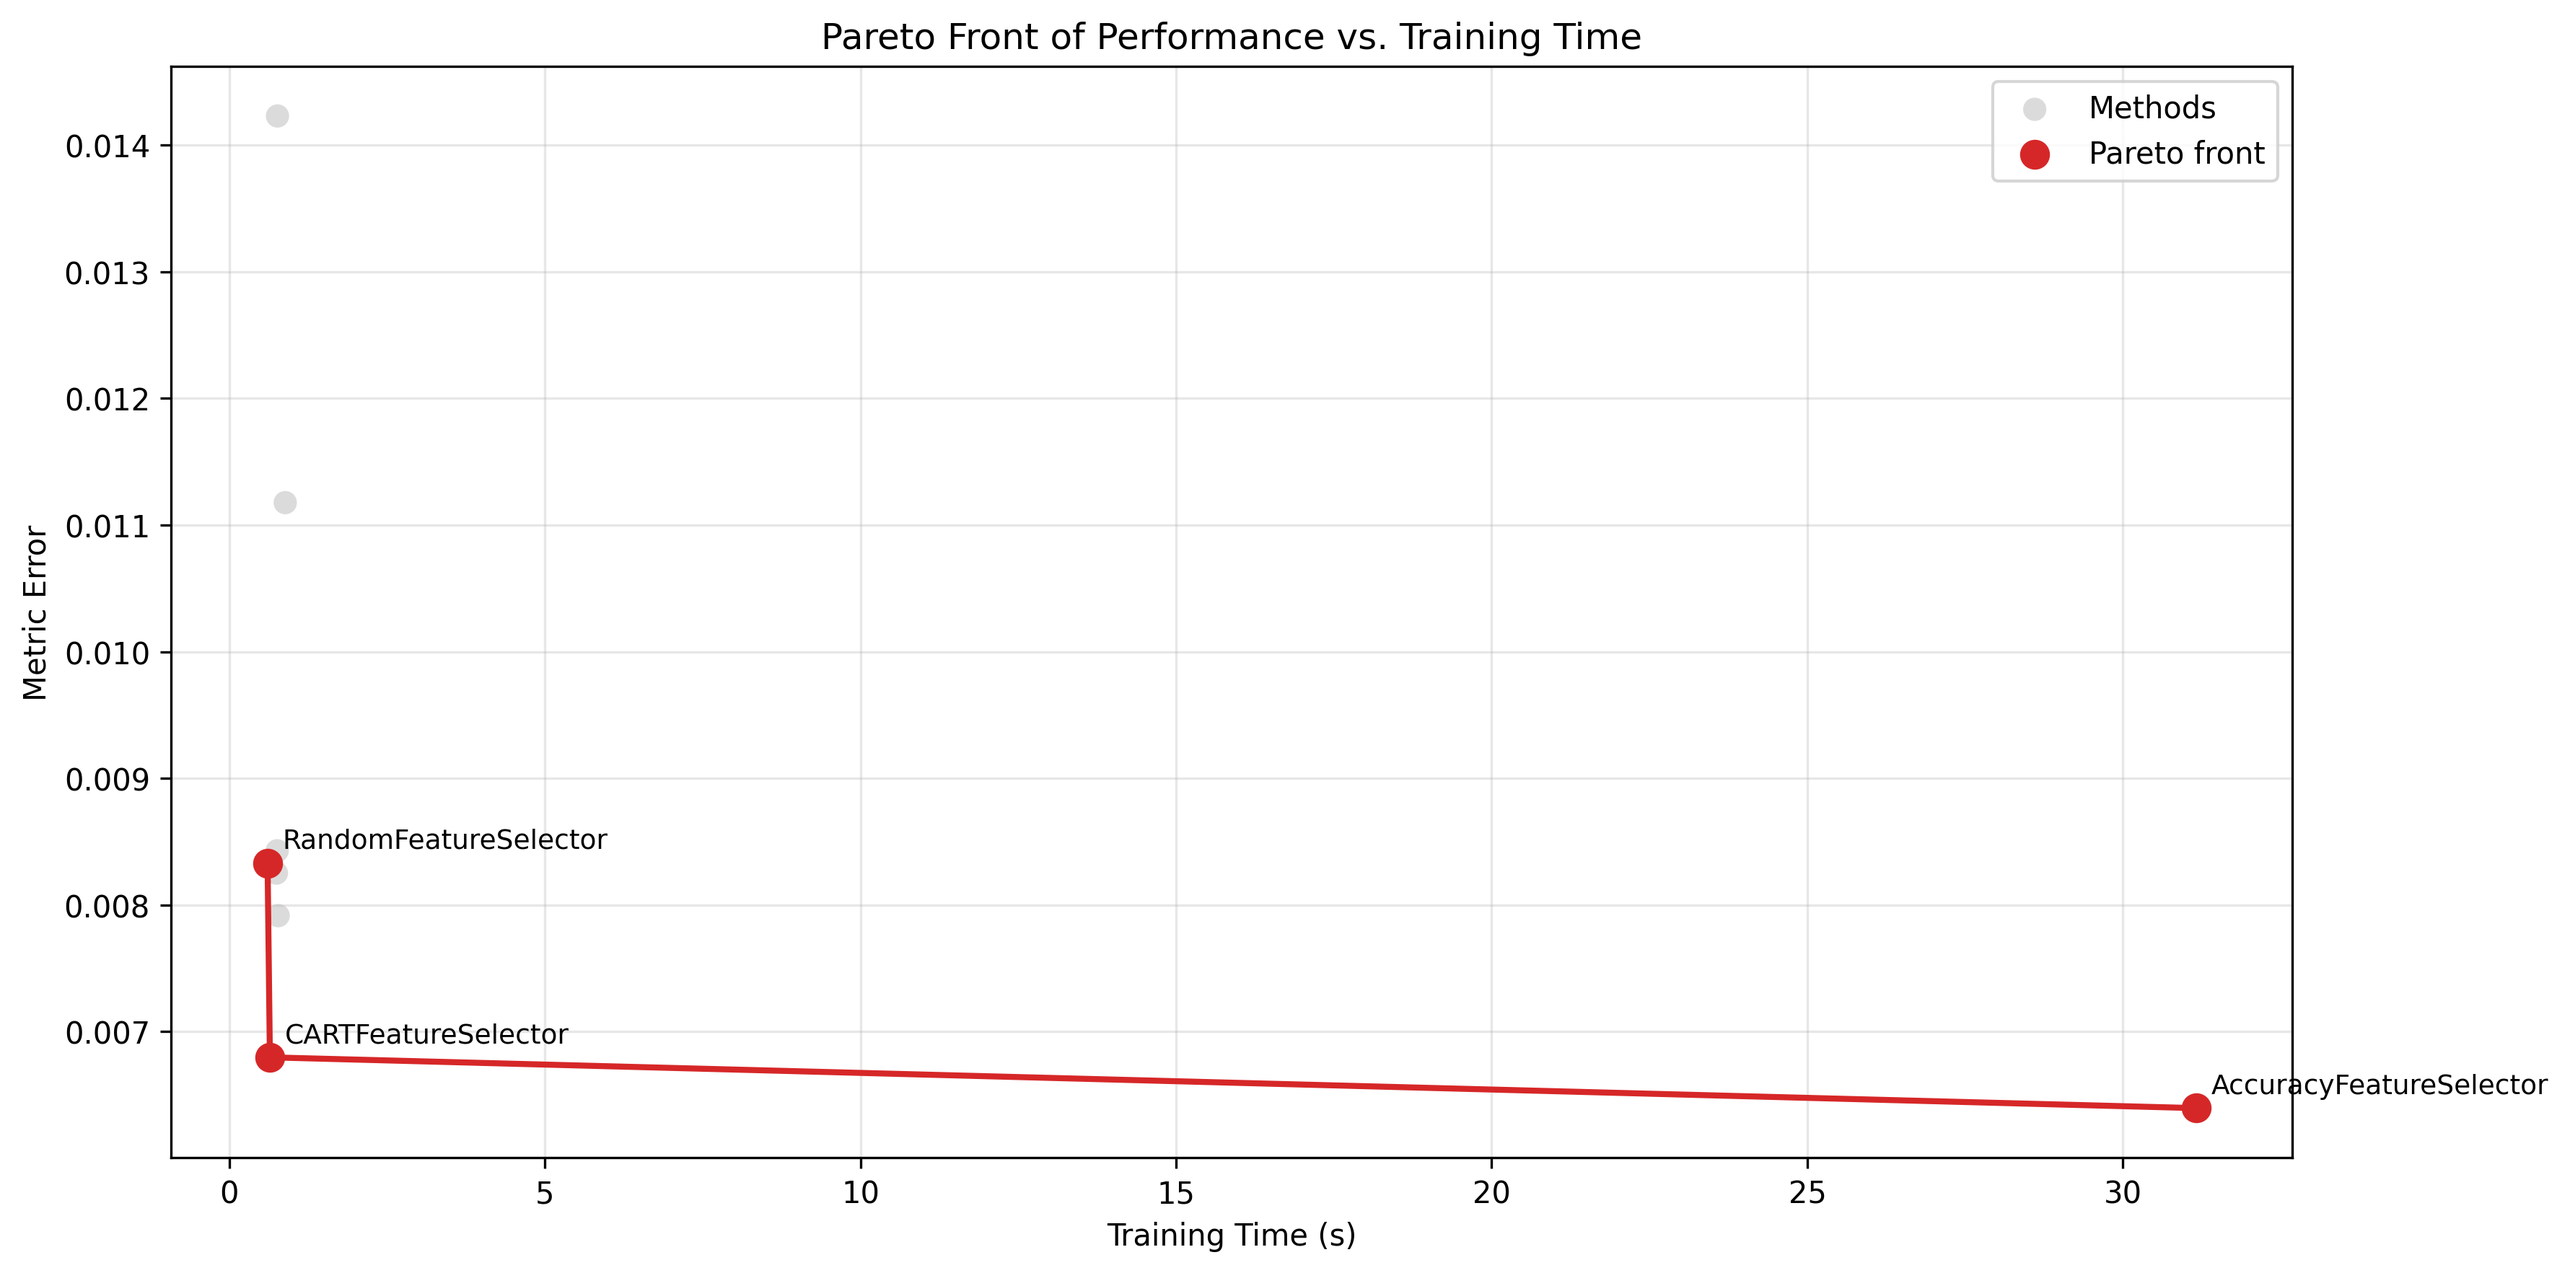
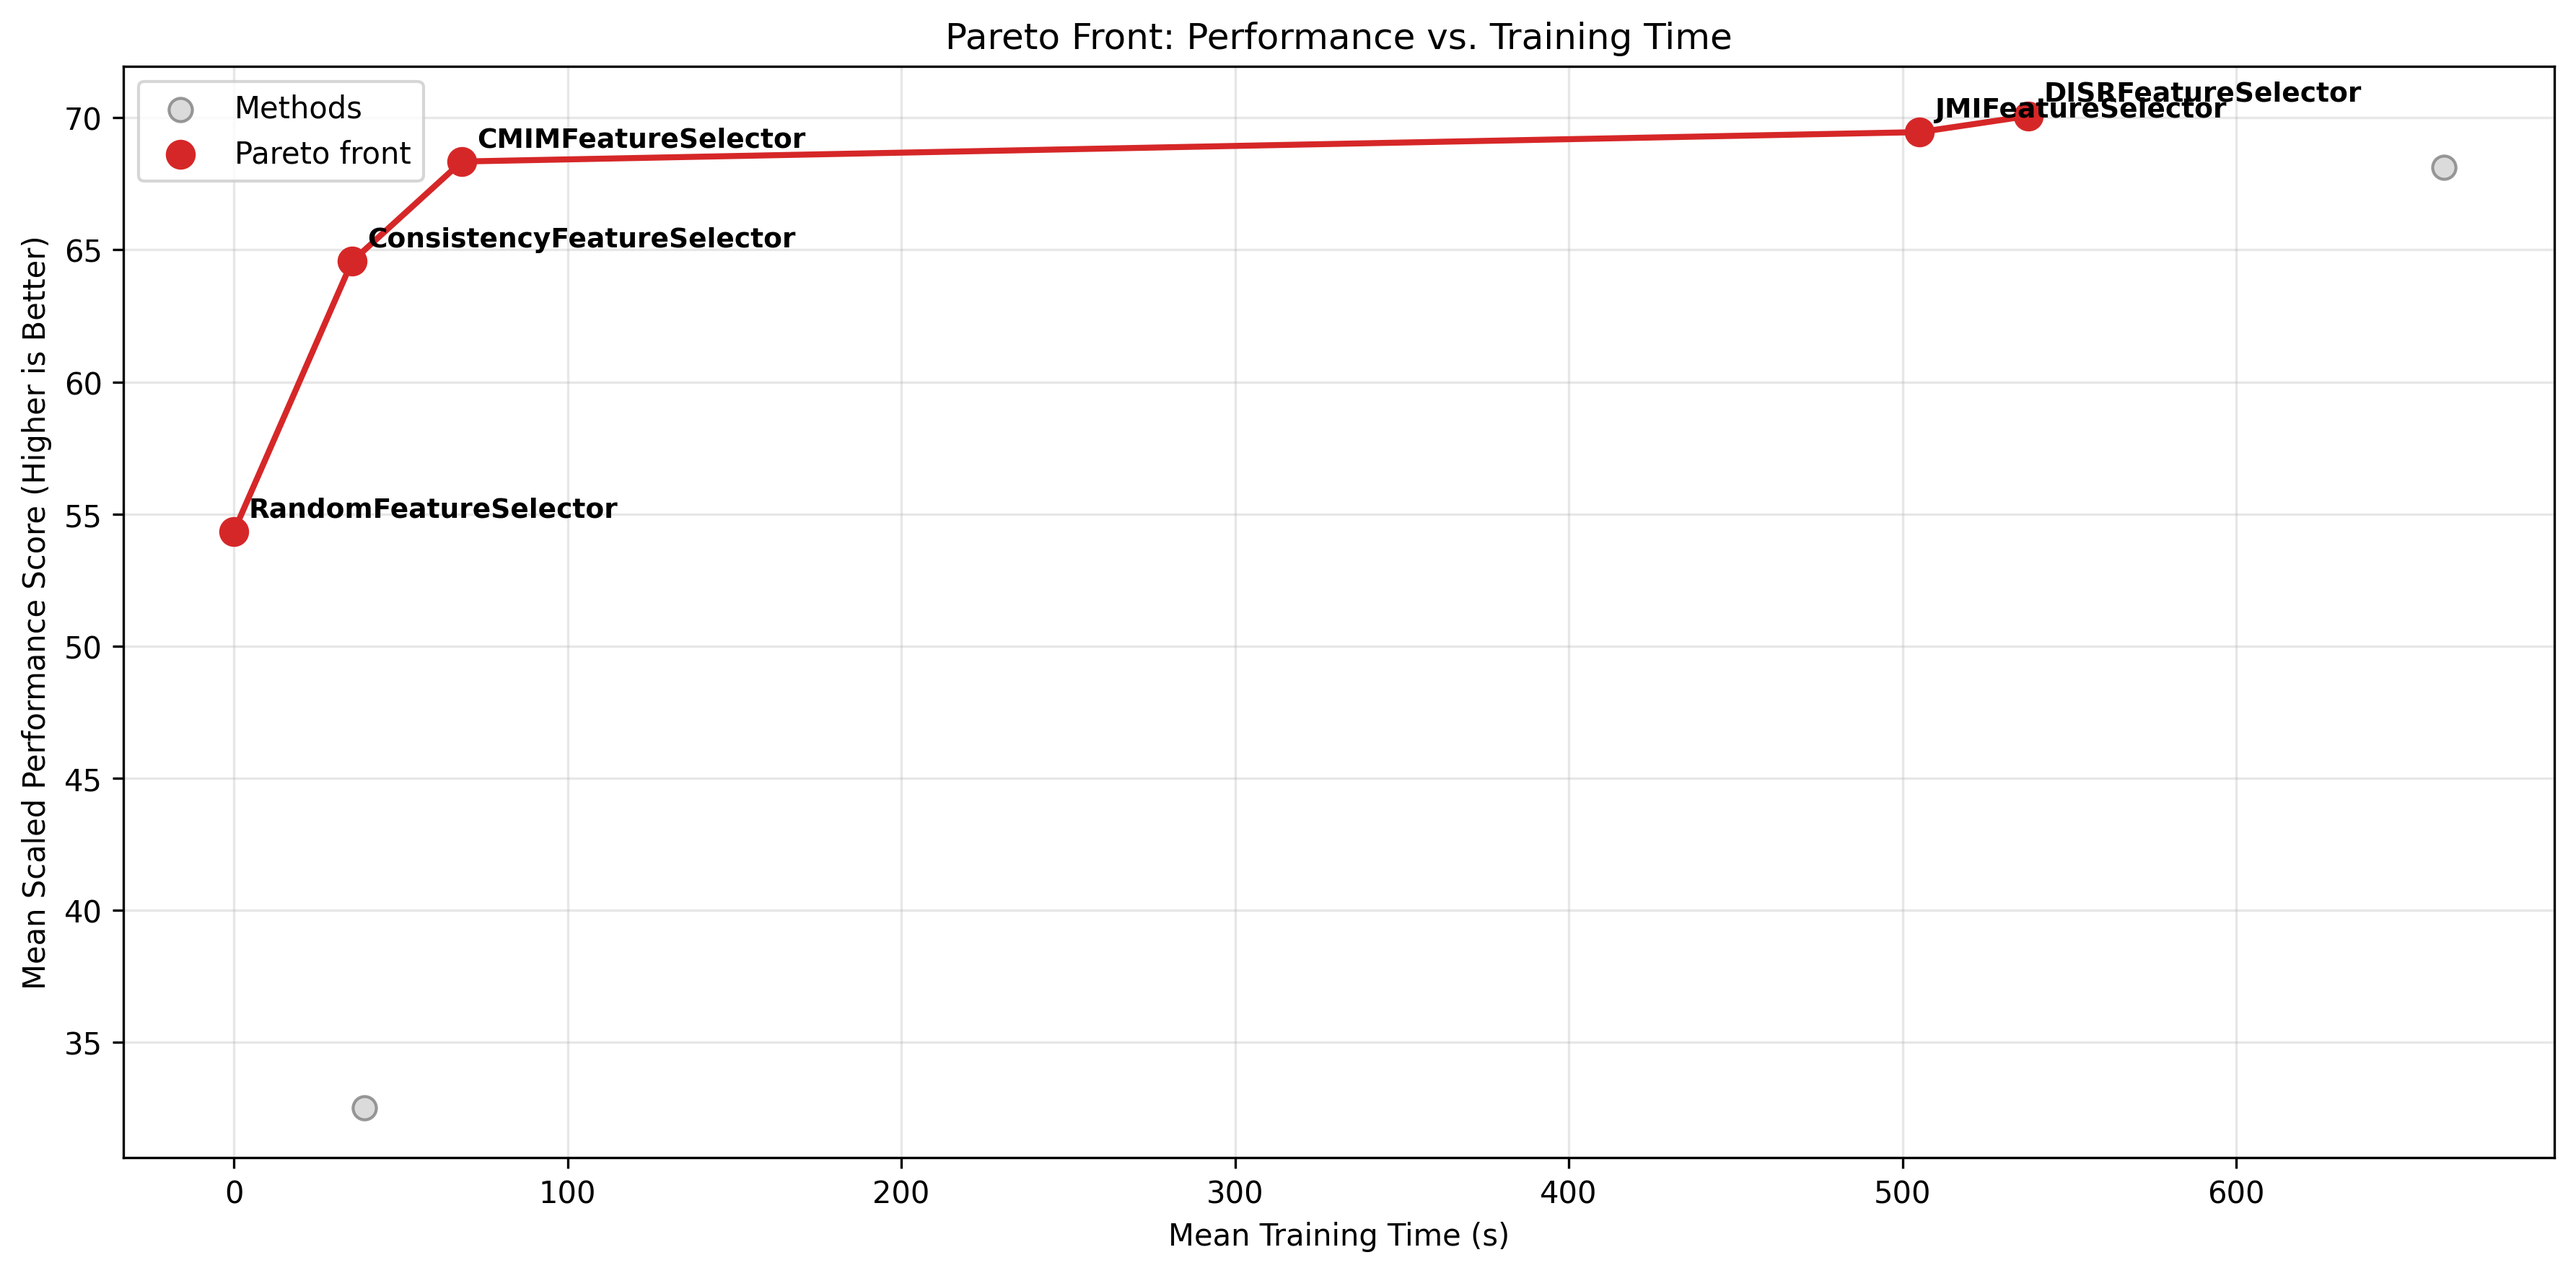
maint: update pareto plot using feature selection fit time

diff --git a/plotting_code/performance/pareto_performance_time_v1.py b/plotting_code/performance/pareto_performance_time_v1.py
@@ -1,76 +1,126 @@
 from pathlib import Path
 import pandas as pd
-from matplotlib import pyplot as plt
+import numpy as np
+import matplotlib.pyplot as plt
 
 # TODO: Adapt file and plot name
-FILE_NAME = "dummy_performance_results.csv"
+FILE_NAME = "results_per_split.csv"
 PLOT_NAME = "pareto_performance_time_v1.png"
 
 # TODO: Adapt title and labels
-PLOT_TITLE = "Pareto Front of Performance vs. Training Time"
-X_LABEL = "Time"
-Y_LABEL = "Metric Error"
+PLOT_TITLE = "Pareto Front: Performance vs. Training Time"
+X_LABEL = "Mean Training Time (s)"
+Y_LABEL = "Mean Scaled Performance Score (Higher is Better)"
 
-# TODO: Adapt plotting function
-import matplotlib.pyplot as plt
-from pathlib import Path
+METRIC_DIRECTIONS = {
+    "log_loss": True,  # Lower error is better
+    "rmse": True,  # Lower error is better
+    "roc_auc": False,  # Higher performance is better
+    "accuracy": False,  # Higher performance is better
+    "f1": False  # Higher performance is better
+}
+
+
+def calculate_scaled_performance_and_time(df):
+    # Ensure dataset, metric, method, error, and time columns are present
+    required_cols = ["metric", "feature_selection_method", "metric_error", "feature_selection_fit_time"]
+
+    df_clean = df.dropna(subset=required_cols).copy()
+
+    # 1. Adjust metric values so "Higher is ALWAYS Better"
+    def adjust_direction(row):
+        is_lower_better = METRIC_DIRECTIONS.get(row["metric"], True)
+        if is_lower_better:
+            return -row["metric_error"]  # Invert error so higher is better
+        return row["metric_error"]
+
+    df_clean["performance"] = df_clean.apply(adjust_direction, axis=1)
+
+    # 2. Average the performance and time per method, per dataset, per metric
+    # This collapses CV splits/models
+    df_collapsed = df_clean.groupby(
+        ["metric", "feature_selection_method"]
+    ).agg(
+        performance=("performance", "mean"),
+        feature_selection_fit_time=("feature_selection_fit_time", "mean")
+    ).reset_index()
+
+    # 3. Min-Max Scale the performance per dataset/metric
+    def min_max_scale(group):
+        min_val = group.min()
+        max_val = group.max()
+        if max_val == min_val:
+            return pd.Series(100.0, index=group.index)
+        return ((group - min_val) / (max_val - min_val)) * 100.0
+
+    df_collapsed["scaled_score"] = df_collapsed.groupby(["metric"])["performance"].transform(
+        min_max_scale)
+
+    # 4. Aggregate mean score and mean time per feature selection method across all datasets
+    agg_df = df_collapsed.groupby("feature_selection_method").agg(
+        mean_score=("scaled_score", "mean"),
+        mean_time=("feature_selection_fit_time", "mean")
+    ).reset_index()
+
+    return agg_df
+
 
 def plot(df):
-    data = df.dropna(subset=["feature_selection_method", "time_train_s", "metric_error"]).copy()
+    agg_df = calculate_scaled_performance_and_time(df)
 
-    # Aggregate one point per method
-    agg = (
-        data.groupby("feature_selection_method", as_index=False)
-        .agg(time=("time_train_s", "min"), metric_error=("metric_error", "min"))
-    )
-
-    # Compute Pareto front: minimize time and metric_error
+    # Compute Pareto front: MAXIMIZE score and MINIMIZE time
     pareto_idx = []
-    for i, row in agg.iterrows():
+    for i, row_i in agg_df.iterrows():
         dominated = False
-        for j, other in agg.iterrows():
+        for j, row_j in agg_df.iterrows():
             if i == j:
                 continue
-            if (
-                other["time"] <= row["time"]
-                and other["metric_error"] <= row["metric_error"]
-                and (
-                    other["time"] < row["time"]
-                    or other["metric_error"] < row["metric_error"]
-                )
-            ):
+
+            # row_j dominates row_i if it is better or equal on BOTH objectives,
+            # and strictly better on AT LEAST ONE.
+            better_or_equal_score = row_j["mean_score"] >= row_i["mean_score"]
+            better_or_equal_time = row_j["mean_time"] <= row_i["mean_time"]
+
+            strictly_better_score = row_j["mean_score"] > row_i["mean_score"]
+            strictly_better_time = row_j["mean_time"] < row_i["mean_time"]
+
+            if (better_or_equal_score and better_or_equal_time) and (strictly_better_score or strictly_better_time):
                 dominated = True
                 break
+
         if not dominated:
             pareto_idx.append(i)
 
-    pareto = agg.loc[pareto_idx].sort_values("time")
+    # Extract Pareto points and sort by time to draw a clean line
+    pareto = agg_df.loc[pareto_idx].sort_values("mean_time")
 
     fig, ax = plt.subplots(figsize=(12, 6))
 
-    # All methods
+    # Plot all methods (Non-Pareto + Pareto)
     ax.scatter(
-        agg["time"],
-        agg["metric_error"],
+        agg_df["mean_time"],
+        agg_df["mean_score"],
         s=60,
         color="lightgray",
-        edgecolor="none",
+        edgecolor="gray",
         alpha=0.8,
         label="Methods",
     )
 
-    # Pareto front
+    # Highlight Pareto front
     ax.scatter(
-        pareto["time"],
-        pareto["metric_error"],
+        pareto["mean_time"],
+        pareto["mean_score"],
         s=80,
         color="tab:red",
         label="Pareto front",
         zorder=3,
     )
+
+    # Draw line connecting Pareto points
     ax.plot(
-        pareto["time"],
-        pareto["metric_error"],
+        pareto["mean_time"],
+        pareto["mean_score"],
         color="tab:red",
         linewidth=2,
         zorder=2,
@@ -80,15 +130,20 @@ def plot(df):
     for _, row in pareto.iterrows():
         ax.annotate(
             row["feature_selection_method"],
-            (row["time"], row["metric_error"]),
+            (row["mean_time"], row["mean_score"]),
             textcoords="offset points",
             xytext=(5, 5),
             fontsize=9,
+            weight='bold'
         )
 
     ax.set_title(PLOT_TITLE)
-    ax.set_xlabel("Training Time (s)")
-    ax.set_ylabel("Metric Error")
+    ax.set_xlabel(X_LABEL)
+    ax.set_ylabel(Y_LABEL)
+
+    # Optional: If time varies wildly (e.g. 0.1s vs 1000s), uncomment the line below:
+    # ax.set_xscale("log")
+
     ax.legend()
     ax.grid(True, alpha=0.3)
     plt.tight_layout()
@@ -96,6 +151,8 @@ def plot(df):
     out = OUTPUT_DIR / PLOT_NAME
     plt.savefig(out, dpi=300, bbox_inches="tight")
     plt.close()
+
+    print(f"✅ Pareto plot saved to {out}")
 
 
 # Do nothing below
